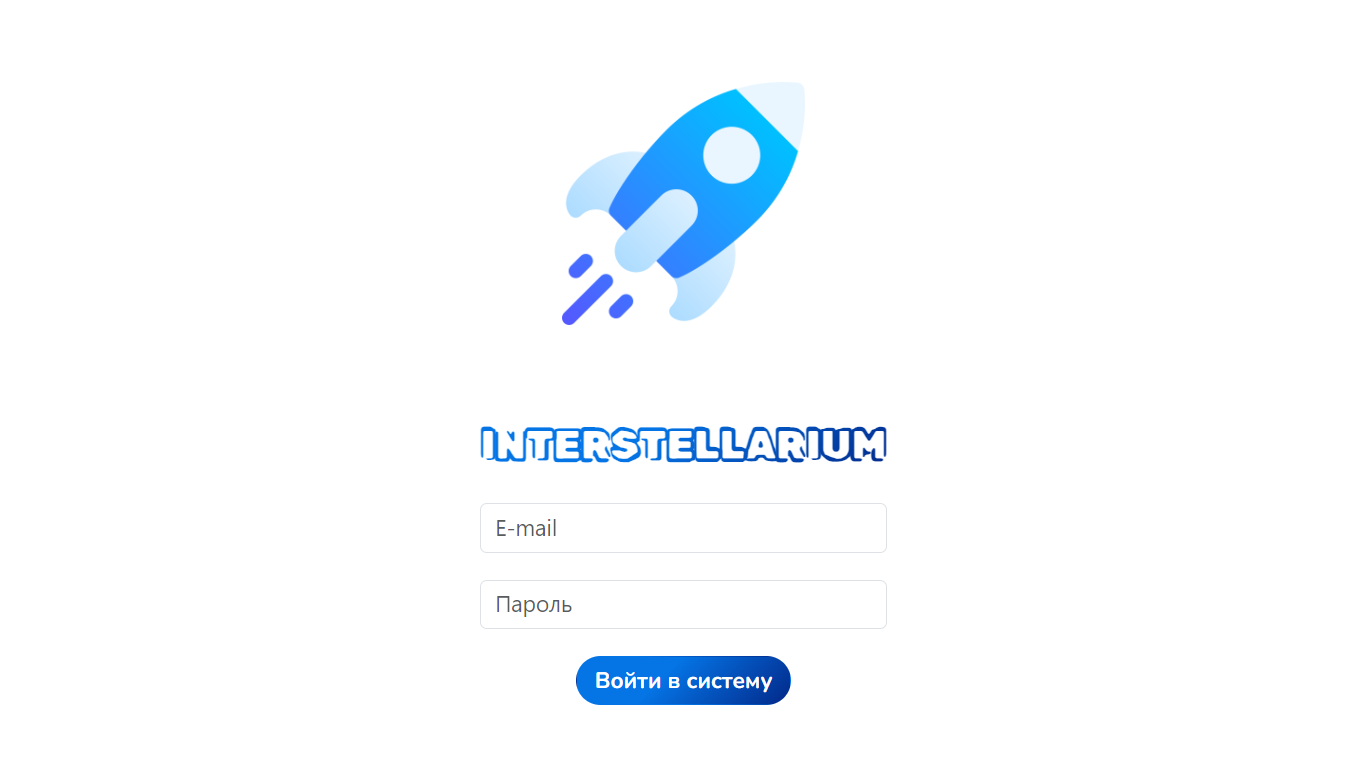
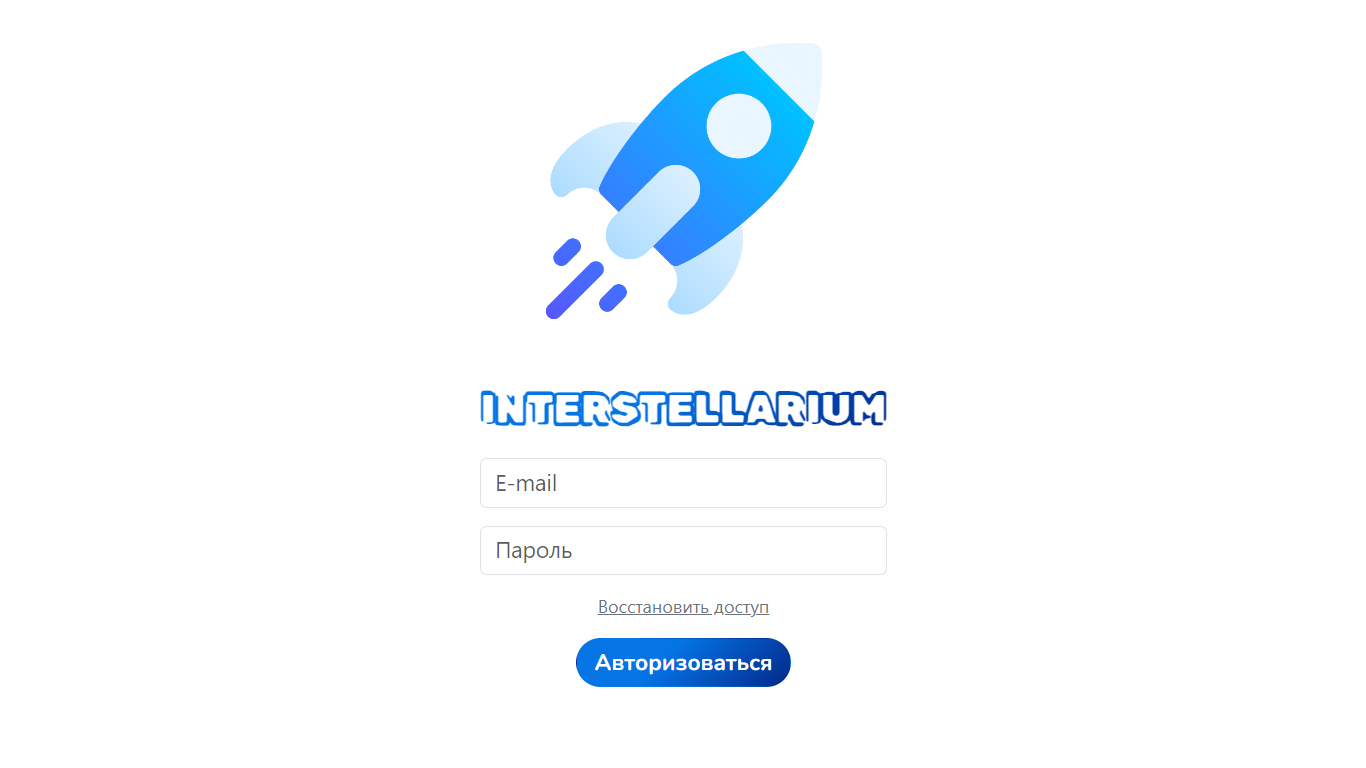
Update styles

diff --git a/src/styles/auth.css b/src/styles/auth.css
@@ -20,7 +20,7 @@
 }
 
 .interstellarium-auth-picture {
-    width: 60%;
+    width: 45%;
 }
 
 .interstellarium-auth-form-wrapper {
@@ -69,11 +69,7 @@
 
 @media (min-width: 992px) {
     .interstellarium-auth-picture {
-        width: 75%;
-    }
-
-    .interstellarium-auth-form-wrapper {
-        padding: 0;
+        width: 64%;
     }
 }
 

diff --git a/src/styles/style.css b/src/styles/style.css
@@ -9,7 +9,7 @@
     --interstellarium-special-font-family: 'Rubik Vinyl';
 }
 
-html, body {
+html, body, #app {
     min-height: 100vh;
     margin: 0;
     display: flex;

diff --git a/README.md b/README.md
@@ -4,3 +4,5 @@
 ![Index](./docs/resources/index.png "Index")
 ## Login page
 ![Login](./docs/resources/login.png "Login")
+## Reset password page
+![Reset Password](./docs/resources/reset-pwd.png "Reset Password")
